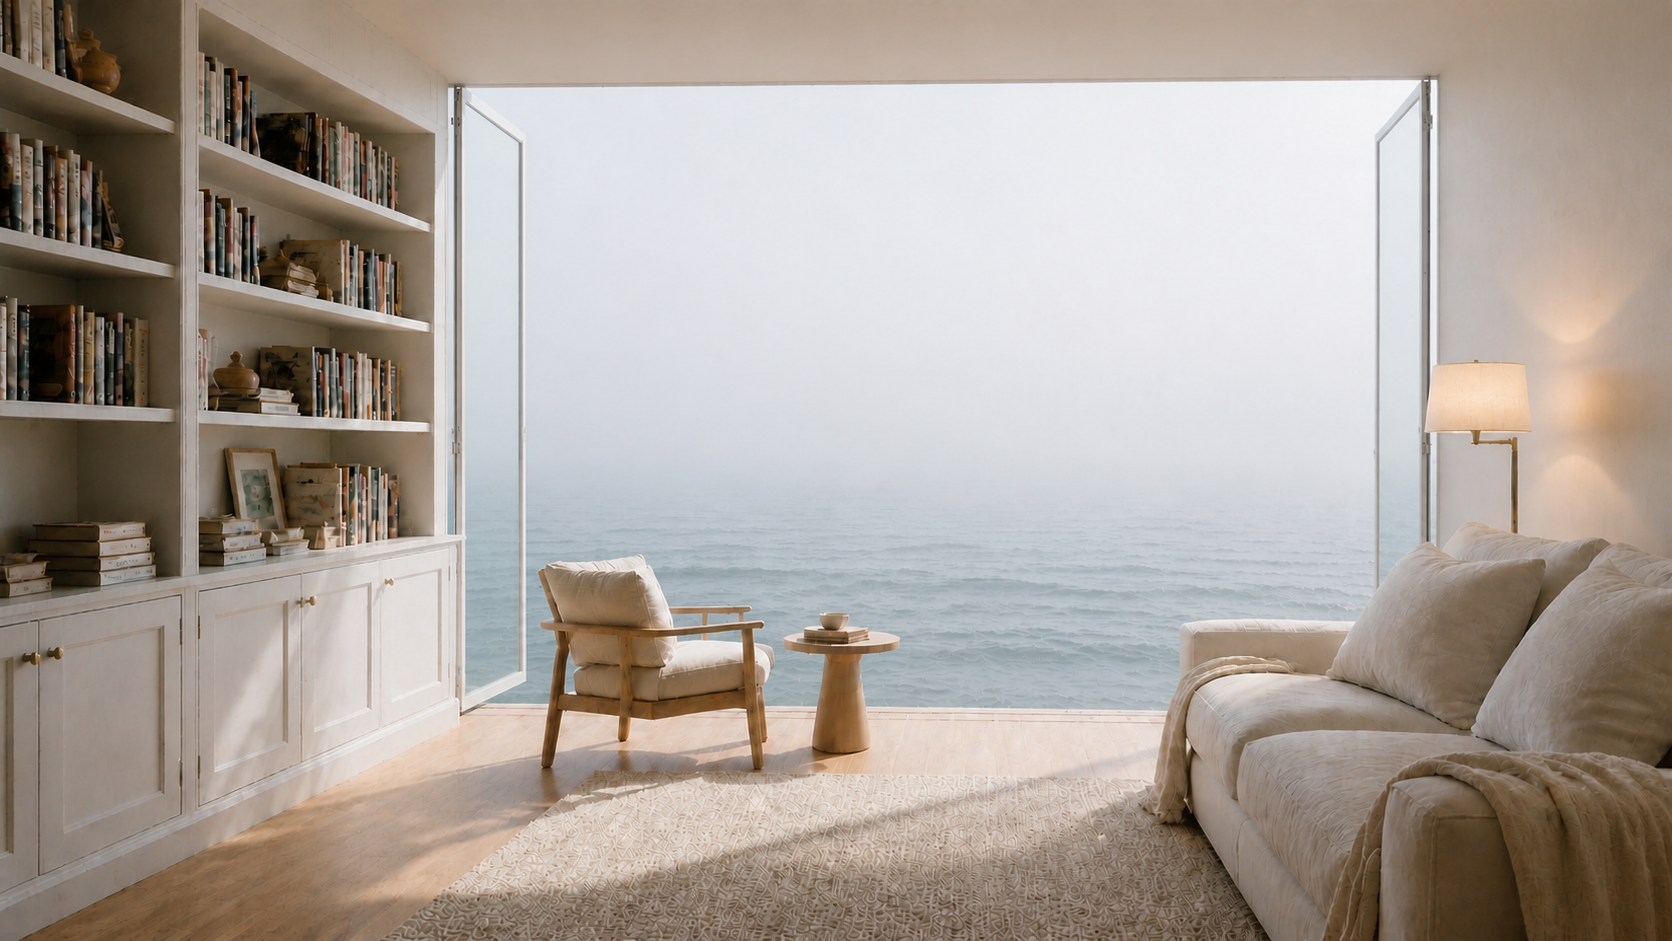
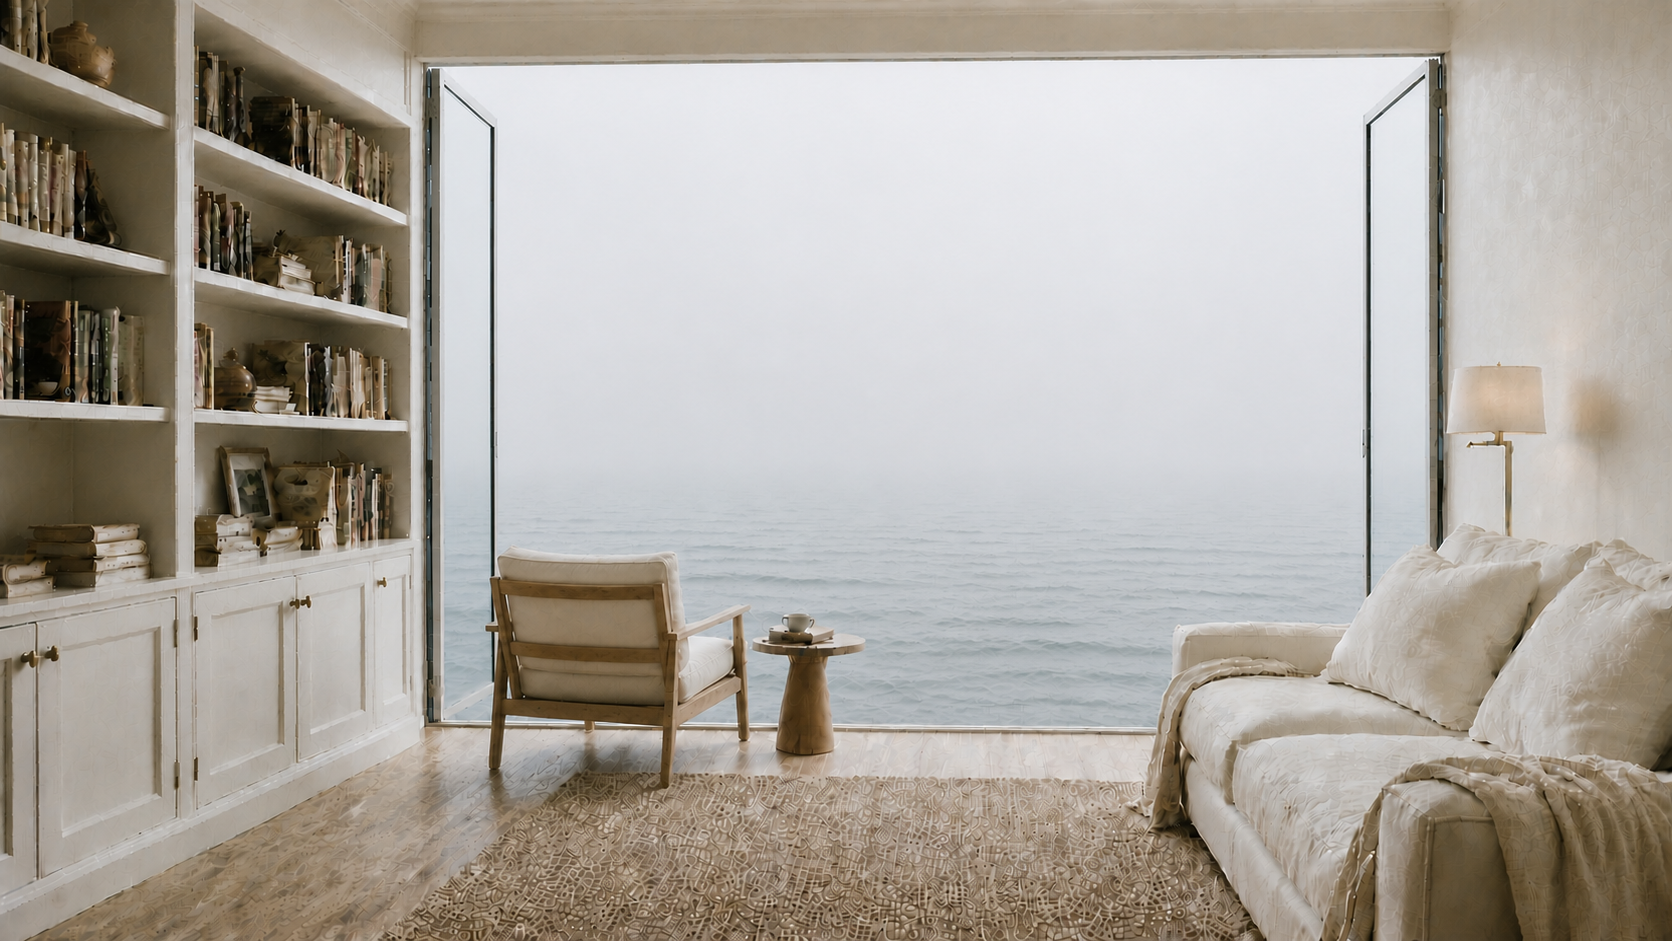
feat: add realtime sky and weather layers

diff --git a/src/main.js b/src/main.js
@@ -9,19 +9,21 @@ const categories = [
 ];
 
 const app = document.querySelector('#app');
-app.innerHTML = `<div class="visual-backdrop" aria-hidden="true"><img class="room-photo" alt="" /></div><div class="moon-orb" aria-hidden="true"></div><canvas id="scene"></canvas><div class="weather-hud" aria-hidden="true"><span class="weather-state"></span><span></span></div><button class="sound-toggle" type="button" aria-label="ambient sound" aria-pressed="false"></button>`;
+app.innerHTML = `<div class="visual-backdrop" aria-hidden="true"><img class="room-photo" alt="" /><div class="cloud-layer" aria-hidden="true"></div><div class="sun-glow" aria-hidden="true"></div></div><div class="moon-orb" aria-hidden="true"></div><canvas id="scene"></canvas><div class="weather-hud" aria-hidden="true"><span class="weather-state"></span><span></span></div><button class="sound-toggle" type="button" aria-label="ambient sound" aria-pressed="false"></button>`;
 const visualBackdrop = document.querySelector('.visual-backdrop');
 const roomPhoto = document.querySelector('.room-photo');
 const moonOrb = document.querySelector('.moon-orb');
+const cloudLayer = document.querySelector('.cloud-layer');
+const sunGlow = document.querySelector('.sun-glow');
 const roomImages = {
   // Neutral master: same room geometry for every later lighting/weather pass.
   day: "url('/images/white-sea-study-master.png?v=0.0.28')",
   dawn: "url('/images/white-sea-study-blue-hour.png?v=0.0.28')",
   sunset: "url('/images/white-sea-study-golden-hour.png?v=0.0.28')",
-  overcast: "url('/images/white-sea-study-overcast.png?v=0.0.23')",
-  fog: "url('/images/white-sea-study-fog.png?v=0.0.23')",
-  rain: "url('/images/white-sea-study-rain.png?v=0.0.23')",
-  storm: "url('/images/white-sea-study-storm.png?v=0.0.23')",
+  overcast: "url('/images/white-sea-study-overcast.png?v=0.0.29')",
+  fog: "url('/images/white-sea-study-fog.png?v=0.0.29')",
+  rain: "url('/images/white-sea-study-rain.png?v=0.0.29')",
+  storm: "url('/images/white-sea-study-storm.png?v=0.0.29')",
   night: "url('/images/white-sea-study-night.png?v=0.0.28')",
   moonFog: "url('/images/white-sea-study-moon-fog-no-moon.png?v=0.0.24')"
 };
@@ -114,10 +116,13 @@ const weatherModes=[
   {test:c=>c<=99, kind:'storm', name:'风雨', sky:'#aebdc5', sea:'#637f89', light:'#c8d7e4', intensity:.3, lamp:2.45, filter:'saturate(.48) brightness(.76)'}
 ];
 let currentMode=weatherModes[0], lastNight=false, weatherReady=false;
+let sunriseMs=0, sunsetMs=0;
 function updateSolarClock(now=new Date()){
   const parts=new Intl.DateTimeFormat('en-US',{timeZone:'America/Los_Angeles',hour:'numeric',minute:'numeric',second:'numeric',hour12:false}).formatToParts(now);
   const get=k=>Number(parts.find(p=>p.type===k)?.value||0); const solarHour=get('hour')+get('minute')/60+get('second')/3600;
-  const daylight=Math.max(0,Math.sin((solarHour-6)/12*Math.PI)), night=daylight<.08;
+  const sunriseHour=sunriseMs ? new Date(sunriseMs).getHours()+new Date(sunriseMs).getMinutes()/60 : 6;
+  const sunsetHour=sunsetMs ? new Date(sunsetMs).getHours()+new Date(sunsetMs).getMinutes()/60 : 18;
+  const daylight=Math.max(0,Math.min(1,(solarHour-sunriseHour)/Math.max(.1,sunsetHour-sunriseHour))), night=(sunriseMs&&sunsetMs) ? (now.getTime()<sunriseMs||now.getTime()>sunsetMs) : daylight<.08;
   // Synodic-month approximation anchored to a known new moon. This keeps the
   // moon phase tied to the actual calendar date without adding another API.
   const knownNewMoon=Date.UTC(2000,0,6,18,14);
@@ -182,13 +187,21 @@ function updateSolarClock(now=new Date()){
   const moonX=Math.max(-22,Math.min(22,Math.sin(moonAzimuth)*22));
   const moonY=Math.max(-18,Math.min(18,(moonAltitude*180/Math.PI-35)*-.32));
   moonOrb.style.transform=`translate(${moonX}vw,${moonY}vh)`;
+  const sunVisibility=Math.max(0,Math.sin(solarAltitude))*weatherVisibility;
+  sunGlow.style.opacity=String(sunVisibility*.24);
+  sunGlow.style.transform=`translate(${Math.max(-18,Math.min(18,Math.sin(solarAzimuth)*22))}vw,${Math.max(-20,Math.min(18,(solarAltitude*180/Math.PI-32)*-.34))}vh)`;
 }
 async function syncSanFranciscoWeather(){
   const label=document.querySelector('.weather-state');
   try{
-    const r=await fetch(`https://api.open-meteo.com/v1/forecast?latitude=37.7749&longitude=-122.4194&current=temperature_2m,weather_code,wind_speed_10m&timezone=America%2FLos_Angeles&_=${Date.now()}`,{cache:'no-store'});
+    const r=await fetch(`https://api.open-meteo.com/v1/forecast?latitude=37.7749&longitude=-122.4194&current=temperature_2m,weather_code,wind_speed_10m,cloud_cover&daily=sunrise,sunset&forecast_days=1&timezone=America%2FLos_Angeles&_=${Date.now()}`,{cache:'no-store'});
     const data=await r.json(); const current=data.current; const mode=weatherModes.find(x=>x.test(current.weather_code))||weatherModes[1]; currentMode=mode; weatherReady=true;
+    sunriseMs=Date.parse(data.daily?.sunrise?.[0]||''); sunsetMs=Date.parse(data.daily?.sunset?.[0]||'');
     document.documentElement.style.setProperty('--weather-sky',mode.sky); document.documentElement.style.setProperty('--weather-sea',mode.sea); document.documentElement.style.setProperty('--weather-filter',mode.filter); document.body.classList.toggle('rain',current.weather_code>=51);
+    const cover=Number.isFinite(current.cloud_cover)?current.cloud_cover:0;
+    const cloudState=mode.kind==='storm'?'storm':mode.kind==='fog'?'fog':cover>=75?'overcast':cover>=35?'scattered':'clear';
+    document.body.dataset.cloud=cloudState;
+    document.documentElement.style.setProperty('--cloud-speed',`${Math.max(18,90-(current.wind_speed_10m||0)*2)}s`);
     sun.color.set(mode.light); weatherLight.color.set(mode.light); updateSolarClock();
     if(rainGain&&audioContext.state==='running') rainGain.gain.setTargetAtTime(current.weather_code>=51?.22:0,audioContext.currentTime,.8);
     label.textContent=`旧金山 · ${mode.name} · ${Math.round(current.temperature_2m)}°C`;

diff --git a/src/style.css b/src/style.css
@@ -42,6 +42,16 @@ header,.scene-copy,.caption,footer,.book-panel{display:none!important}
 .moon-orb[data-weather="fog"]{filter:blur(2.5px)}
 .moon-orb[data-weather="rain"]{filter:blur(3px)}
 .moon-orb[data-weather="storm"]{filter:blur(4px)}
+.cloud-layer,.sun-glow{position:absolute;pointer-events:none;z-index:1;left:25%;right:14%;top:5%;bottom:25%;overflow:hidden;transition:opacity 3s ease,filter 3s ease}
+.cloud-layer{opacity:0;filter:blur(18px);mix-blend-mode:soft-light;background:radial-gradient(ellipse at 18% 26%,rgba(255,255,255,.7),transparent 27%),radial-gradient(ellipse at 48% 18%,rgba(255,255,255,.58),transparent 32%),radial-gradient(ellipse at 78% 31%,rgba(255,255,255,.62),transparent 30%),linear-gradient(180deg,rgba(90,112,124,.25),transparent 68%);animation:cloud-drift var(--cloud-speed,60s) ease-in-out infinite alternate}
+body[data-cloud="scattered"] .cloud-layer{opacity:.16;filter:blur(16px)}
+body[data-cloud="overcast"] .cloud-layer{opacity:.3;filter:blur(20px)}
+body[data-cloud="fog"] .cloud-layer{opacity:.24;filter:blur(28px)}
+body[data-cloud="storm"] .cloud-layer{opacity:.42;filter:blur(15px);mix-blend-mode:multiply}
+.sun-glow{z-index:2;left:0;right:auto;top:0;bottom:auto;width:150px;height:150px;border-radius:50%;opacity:0;background:radial-gradient(circle,rgba(255,244,190,.72) 0,rgba(255,229,160,.24) 34%,transparent 72%);filter:blur(7px);transition:opacity 3s ease,transform 4s ease-out}
+@keyframes cloud-drift{from{background-position:0 0,0 0,0 0,0 0}to{background-position:8% 3%,-6% 2%,5% -2%,0 0}}
+@media(max-width:700px){.cloud-layer{left:4%;right:4%;top:4%;bottom:28%}.sun-glow{width:100px;height:100px}}
+@media(prefers-reduced-motion:reduce){.cloud-layer{animation:none}}
 
 /* Portrait screens keep the room full-bleed, but shift the crop toward the
    open window and reading corner instead of cutting through the furniture. */
